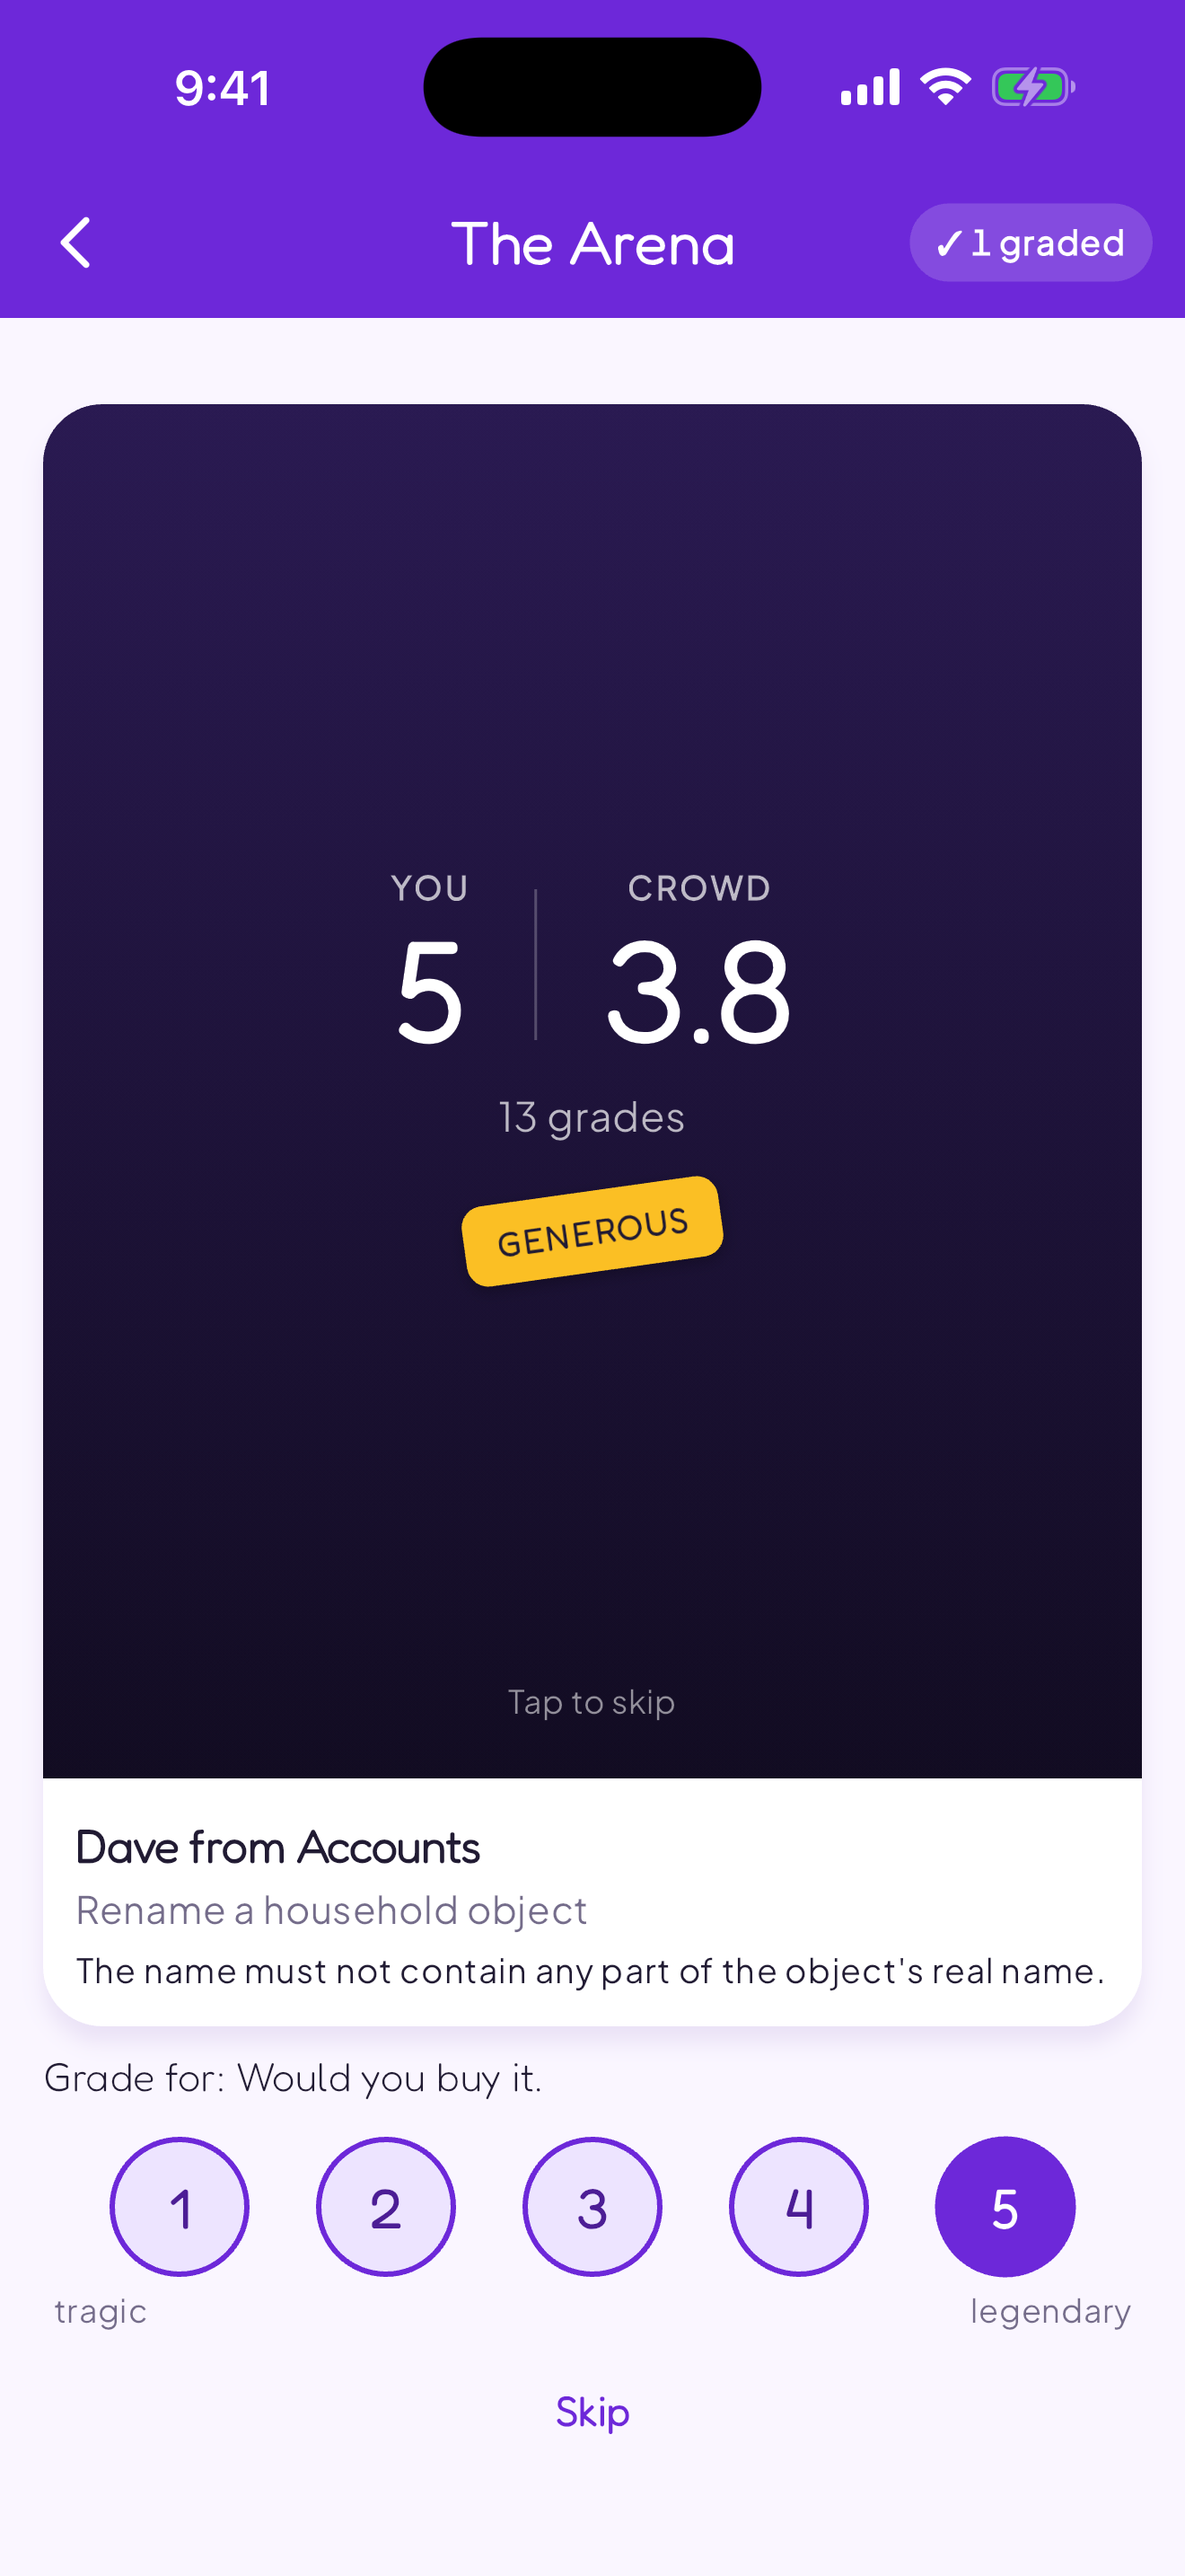
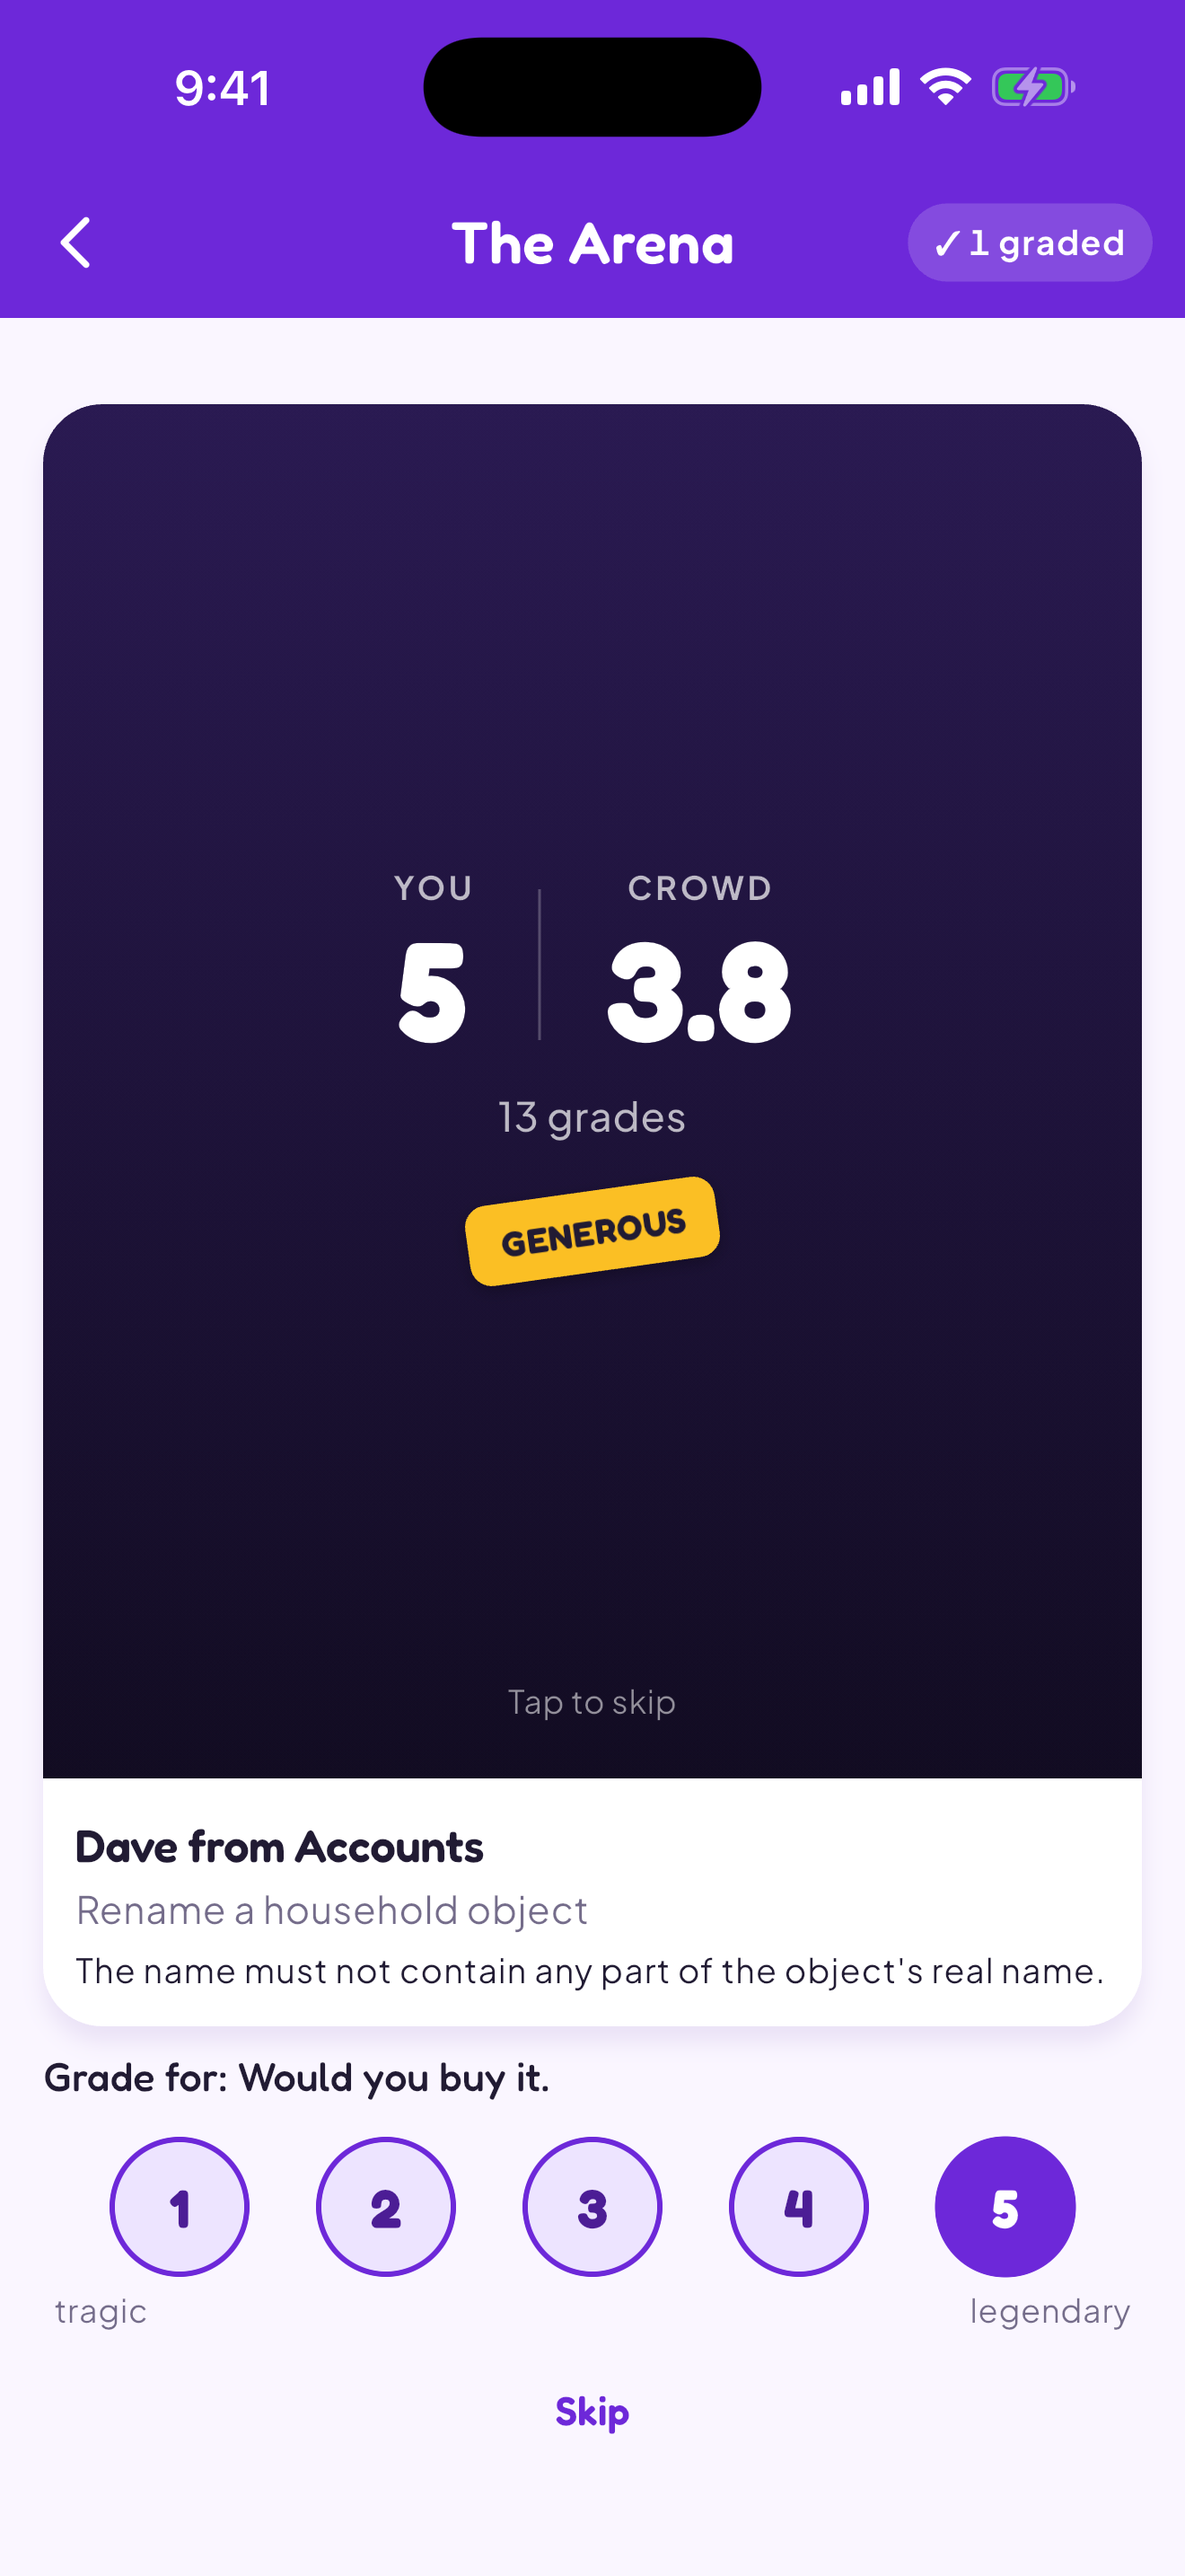
chore: Flutter 3.47.9 for TaskCaster; emoji in iOS store shots; 1.6.0+39
- Build with ~/flutter-stable (3.47.9); ~/flutter stays 3.22.2 for other apps.
- CardTheme/DialogTheme -> *ThemeData; goldens refreshed for the new renderer.
- Swift Package Manager off (Pods + SPM both defined Firebase); UIScene
  auto-migration off (keeps Google sign-in and invite-link delivery as is).
- Theme names Apple Color Emoji as fallback; the screenshot build registers
  the Mac's copy because the iOS 26 simulator's reduced emoji font draws boxes.
- Store shots recaptured with real emoji.

Claude-Session: https://claude.ai/code/session_01TKDrBR6tFuBUDDtruek7Qk

diff --git a/lib/core/theme/app_theme.dart b/lib/core/theme/app_theme.dart
@@ -61,17 +61,28 @@ class AppTheme {
     colors: [Color(0xFF7C3AED), Color(0xFF6D28D9), Color(0xFF4C1D95)],
   );
 
+  /// Emoji fallback by name. On devices this is the system emoji font; the
+  /// store-screenshot build registers the Mac's copy under the same name
+  /// because the iOS 26 simulator's reduced emoji font draws as boxes.
+  static const emojiFallback = <String>['Apple Color Emoji'];
+
   static TextTheme _textTheme(Color onColor) {
     TextStyle d(double size, [FontWeight w = FontWeight.w600, double ls = -0.3]) =>
         TextStyle(
             fontFamily: _display,
+            fontFamilyFallback: emojiFallback,
             fontWeight: w,
             fontSize: size,
             color: onColor,
             letterSpacing: ls);
     TextStyle b(double size, [FontWeight w = FontWeight.w400, double h = 1.4]) =>
         TextStyle(
-            fontFamily: _body, fontWeight: w, fontSize: size, color: onColor, height: h);
+            fontFamily: _body,
+            fontFamilyFallback: emojiFallback,
+            fontWeight: w,
+            fontSize: size,
+            color: onColor,
+            height: h);
     return TextTheme(
       displayLarge: d(40, FontWeight.w600, -0.5),
       displayMedium: d(32),
@@ -116,6 +127,7 @@ class AppTheme {
       colorScheme: scheme,
       scaffoldBackgroundColor: cream,
       fontFamily: _body,
+      fontFamilyFallback: emojiFallback,
       textTheme: _textTheme(ink),
       extensions: const [AppTokens.light],
       appBarTheme: const AppBarTheme(
@@ -140,7 +152,7 @@ class AppTheme {
           letterSpacing: 0.2,
         ),
       ),
-      cardTheme: CardTheme(
+      cardTheme: CardThemeData(
         elevation: 6,
         color: surface,
         surfaceTintColor: Colors.transparent,
@@ -265,6 +277,7 @@ class AppTheme {
       colorScheme: scheme,
       scaffoldBackgroundColor: darkBg,
       fontFamily: _body,
+      fontFamilyFallback: emojiFallback,
       textTheme: _textTheme(onDark),
       extensions: const [AppTokens.dark],
       appBarTheme: const AppBarTheme(
@@ -289,7 +302,7 @@ class AppTheme {
           letterSpacing: 0.2,
         ),
       ),
-      cardTheme: CardTheme(
+      cardTheme: CardThemeData(
         elevation: 0,
         color: darkSurface,
         surfaceTintColor: Colors.transparent,
@@ -374,7 +387,7 @@ class AppTheme {
         backgroundColor: violetLight,
         foregroundColor: violetDeep,
       ),
-      dialogTheme: DialogTheme(
+      dialogTheme: DialogThemeData(
         backgroundColor: darkSurfaceHigh,
         surfaceTintColor: Colors.transparent,
         shape: RoundedRectangleBorder(borderRadius: BorderRadius.circular(24)),

diff --git a/lib/main_screenshots.dart b/lib/main_screenshots.dart
@@ -13,6 +13,8 @@
 /// flutter build apk --debug -t lib/main_screenshots.dart
 /// ```
 
+import 'dart:io';
+
 import 'package:flutter/material.dart';
 import 'package:flutter/services.dart';
 
@@ -26,6 +28,7 @@ import 'main.dart' show TaskCasterApp;
 
 void main() async {
   await _initializeApp();
+  await _loadHostEmojiFont();
 
   runApp(
     const ErrorBoundary(
@@ -61,4 +64,22 @@ Future<void> _initializeApp() async {
   await ServiceLocator.init(useMockServices: true);
 
   await ThemeController.instance.load();
+}
+
+/// The iOS 26 simulator ships only a reduced emoji font that Flutter draws as
+/// boxes. A simulator app can read the Mac's files, so register the Mac's
+/// Apple Color Emoji under the theme's fallback name (AppTheme.emojiFallback).
+/// No-op anywhere that file does not exist (devices, Android, CI).
+Future<void> _loadHostEmojiFont() async {
+  const path = '/System/Library/Fonts/Apple Color Emoji.ttc';
+  try {
+    final f = File(path);
+    if (!f.existsSync()) return;
+    final bytes = await f.readAsBytes();
+    final loader = FontLoader('Apple Color Emoji')
+      ..addFont(Future.value(ByteData.sublistView(bytes)));
+    await loader.load();
+  } catch (_) {
+    // Screenshots still work, just with boxes for emoji.
+  }
 }

diff --git a/test/features/settings/delete_account_test.dart b/test/features/settings/delete_account_test.dart
@@ -149,6 +149,9 @@ void main() {
       await tapAndAwaitTerminalState(tester, find.text('Delete My Account'));
 
       verify(() => mockAuthRepository.deleteAccount()).called(1);
+      // Newer Flutter page transitions outlast the helper's 400 ms pump;
+      // no snackbar here, so settling is safe.
+      await tester.pumpAndSettle();
       // AuthAccountDeleted -> the listener pops back to the first route.
       expect(find.text('Root screen'), findsOneWidget);
       expect(find.byType(SettingsScreen), findsNothing);

diff --git a/ios/Runner/AppDelegate.swift b/ios/Runner/AppDelegate.swift
@@ -1,7 +1,7 @@
 import Flutter
 import UIKit
 
-@UIApplicationMain
+@main
 @objc class AppDelegate: FlutterAppDelegate {
   override func application(
     _ application: UIApplication,
